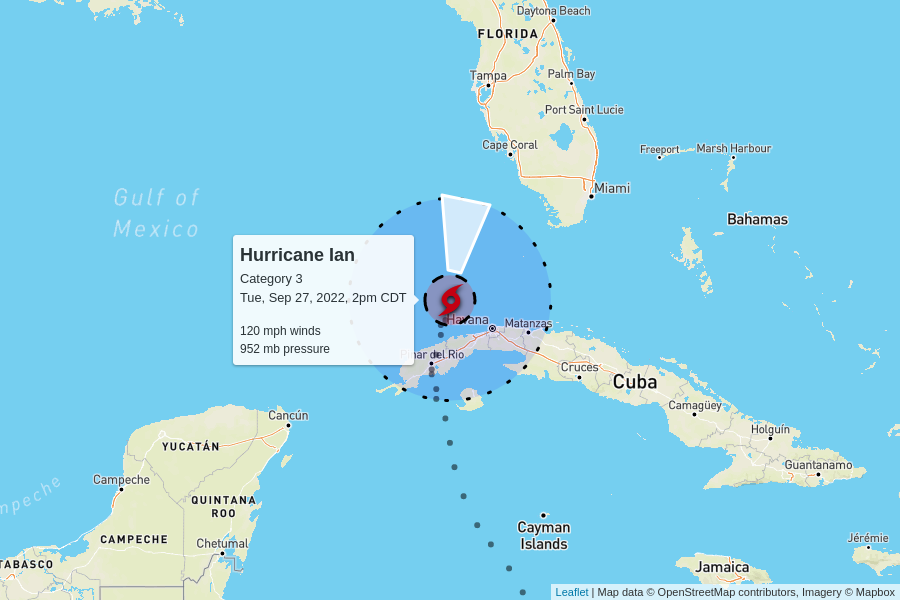
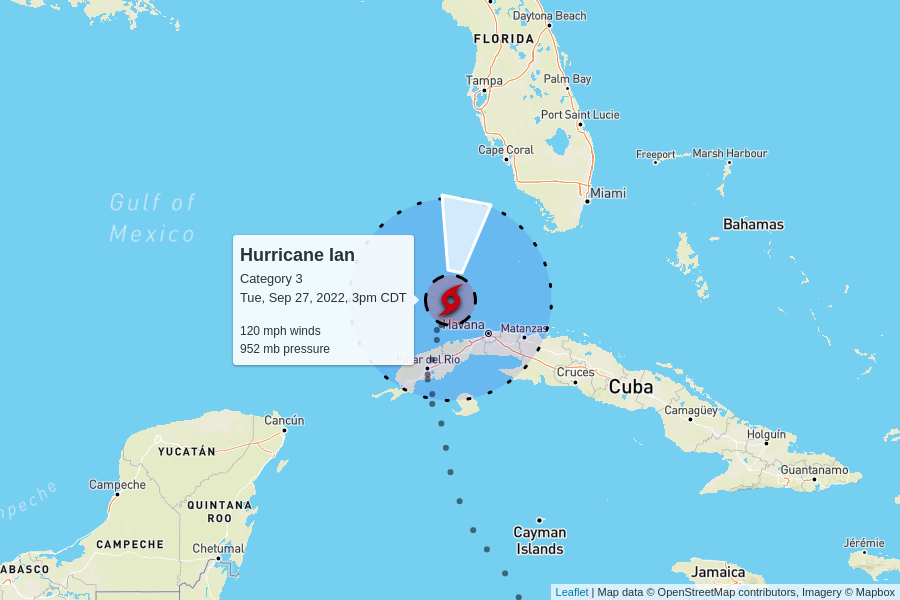
automatic update

diff --git a/docs/index.html b/docs/index.html
@@ -100,7 +100,7 @@
         <td colspan="6" class="storm category-3" >
           <h2>
             Hurricane Ian - Category 3
-            <p class="updated">last updated <span data-time>2022-09-27T19:00:00.000Z</span></p>
+            <p class="updated">last updated <span data-time>2022-09-27T20:00:00.000Z</span></p>
           </h2>
         </td>
       </tr>
